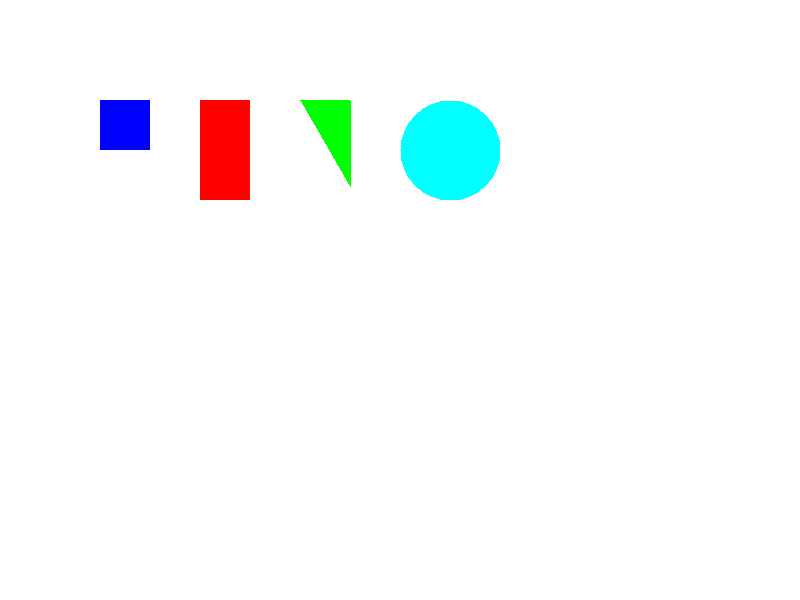
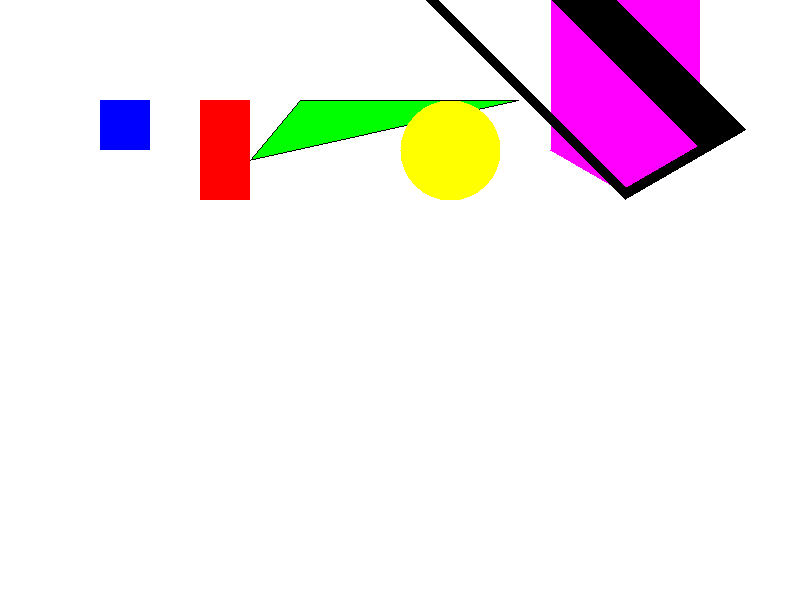
rombHW

Changed region(s): [[0.3125, 0.0, 0.9375, 0.33], [0.5312, 0.0, 0.5625, 0.03]]

diff --git a/abstractGeometry/main.cpp b/abstractGeometry/main.cpp
@@ -7,7 +7,9 @@
 
 using namespace std;
 using namespace Gdiplus;
-
+using std::cin;
+using std::cout;
+using std::endl;
 #define M_PI 3.14
 
 ULONG_PTR gdiplusToken;
@@ -41,13 +43,15 @@ int GetEncoderClsid(const WCHAR* format, CLSID* pClsid) {
 
 namespace Geometry
 {
+
    enum Color
     {
         Red = 0x000000FF,
         Green = 0x0000FF00,
         Blue = 0x00FF0000,
-        Yellow = 0x0000FFFF,
+        Yellow = 0xFFFF00,
         Violet = 0x00FF00FF,
+        Black = 0x000000FF
       };  
     //enum Color 
     //{
@@ -168,16 +172,20 @@ namespace Geometry
         double get_side_2() const { return side_2; }
         double get_angleDeg() const { return angleDeg; }
 
-        double get_side_3() const {
-            return sqrt(pow(side_1, 2) + pow(side_2, 2) - 2 * side_1 * side_2 * cos(angleDeg * M_PI / 180));
+        double get_side_3() const 
+        {
+            //double angleRad = angleDeg * M_PI / 180;
+            return sqrt((side_1 * side_1) + (side_2 * side_2) - 2 * side_1 * side_2 * cos(angleDeg * M_PI / 180));
         }
 
         double get_area() const override {
-            double angleRad = angleDeg * M_PI / 180;
-            return 0.5 * side_1 * side_2 * sin(angleRad);
+            //double angleRad = angleDeg * M_PI / 180;
+            return 0.5 * side_1 * side_2 * sin(angleDeg * M_PI / 180);
         }
+        
 
         double get_perimeter() const override {
+           // double side_3 = get_side_3();
             return side_1 + side_2 + get_side_3();
         }
 
@@ -186,54 +194,41 @@ namespace Geometry
         {
             Gdiplus::Color fillColor(FILLCOLOR);
             SolidBrush brush(fillColor);
+
+            double side_3 = get_side_3();
+          double height = (2 * get_area()) / side_3;
+            double angleRad = angleDeg * M_PI / 180;
+           
             PointF points[3];
+
+
             points[0] = PointF(start_x, start_y);
-            points[1] = PointF(start_x + side_1, start_y);
-            double angleRad = get_angleDeg() * M_PI / 180;
-            points[2] = PointF(start_x + side_2 * cos(angleRad),
-                               start_y + side_2 * sin(angleRad));
+            points[1] = PointF(start_x + side_1 * cos(angleRad), start_y + height);
+            points[2] = PointF(start_x + side_3, start_y );
+                              
             g->FillPolygon(&brush, points, 3);
         }
-      /* void fill(Graphics* g) const
-       {
-           Gdiplus::Color fillColor(FILLCOLOR);
-           SolidBrush brush(fillColor); 
-           Gdiplus::PointF points[3];
-           PointF A = { start_x, start_y };
-           PointF B = { start_x + side_1, start_y };
-           double angleRad = get_angleDeg() * M_PI / 180;
-           PointF C;
-           C.x = start_x + side_2 * cos(angleRad);
-           C.y = start_y + side_2 * sin(angleRad);
-           PointF points[3] = { A, B, C };
-           g->FillPolygon(&brush, points,3);
-       }
-      */  //void draw(Graphics* g) const 
-        //{
-        //    Gdiplus::Color fillColor(color);
-        //   
-        //    // Точки треугольника
-        //    REAL A_x = start_x;
-        //    REAL A_y = start_y;
-        //    REAL B_x = start_x + (REAL)side_1;
-        //    REAL B_y = start_y;
+      
+        void draw(Graphics* g) const 
+        {
+            double side_3 = get_side_3();
+            double height = (2 * get_area()) / side_3;
+            double angleRad = angleDeg * M_PI / 180;
 
-        //    double angleRad = get_angleDeg() * M_PI / 180;
-        //    REAL C_x = start_x + (REAL)(side_2 * cos(angleRad));
-        //    REAL C_y = start_y + (REAL)(side_2 * sin(angleRad));
+            PointF points[3];
 
-        //    PointF points[3] =
-        //    {
-        //        PointF(A_x, A_y),
-        //        PointF(B_x, B_y),
-        //        PointF(C_x, C_y)
-        //    };
 
-        //    Gdiplus::Color penColor(color);
-        //    Pen pen(penColor, line_width); 
+            points[0] = PointF(start_x, start_y);
+            points[1] = PointF(start_x + side_1 * cos(angleRad), start_y + height);
+            points[2] = PointF(start_x + side_3, start_y);
 
-        //    g->DrawPolygon(&pen, points, 3);
-        //}
+            Gdiplus::Color penColor(255, 0, 0, 0);
+
+
+            Pen pen(penColor, line_width); 
+
+            g->DrawPolygon(&pen, points, 3);
+        }
 
         Triangle(double side_1, double side_2, double angleDeg, SHAPE_TAKE_PARAMETERS)
             :Shape(SHAPE_GIVE_PARAMETERS) 
@@ -246,6 +241,11 @@ namespace Geometry
 
         void info() const override 
         {
+            if (side_1 + side_2 <= get_side_3() || side_1 + get_side_3 ()<= side_2 || side_2 + get_side_3() <= side_1) 
+            {
+                std::cout << "Треугольник с такими сторонами не существует." << std::endl;
+               // return 1;
+            }
             cout << "Triangle:" << endl;
             cout << "Сторона 1: " << get_side_1() << endl;
             cout << "Сторона 2: " << get_side_2() << endl;
@@ -292,6 +292,124 @@ namespace Geometry
             //Sleep(5000);
         }
     };
+    class Romb :public Shape
+    {
+        double side_1;
+        double side_2;
+        double angleDeg;
+
+    public:
+  
+        void set_side_1(double side_1) { this->side_1 = side_1; }
+        void set_side_2(double side_2) { this->side_2 = side_2; }
+        void set_angleDeg(double angleDeg) { this->angleDeg = angleDeg; }
+        
+        double get_side_1()const { return side_1; }
+        double get_side_2()const { return side_2; }
+        double get_angleDeg()const { return angleDeg; }
+       // double side_3 = get_side_3();
+        //double get_side_3() const
+        //{
+        //    //double angleRad = angleDeg * M_PI / 180.0;
+        //    return sqrt(pow(side_1, 2) + pow(side_1, 2) - 2 * side_1 * side_1 * cos(angleDeg * M_PI / 180));
+        //}
+        //
+        double get_side_3() const
+        {
+            double angleRad = angleDeg * M_PI / 180;
+            return sqrt((side_1 * side_1) + (side_1 * side_1) - 2 * side_1 * side_1 * cos(angleRad));
+        }
+
+        double get_area_1() const
+        {
+            return 0.5 * side_1 * side_2 * sin(angleDeg * M_PI / 180);
+            //double angleRad = angleDeg * M_PI / 180.0;
+            //return 0.5 * side_1 * side_1 * sin(angleRad); 
+        }
+        double get_area_2() const
+        {
+          // double side_3 = get_side_3();
+           double s = (side_2 + side_2 + get_side_3()) / 2;
+           return  sqrt(s * (s - side_2) * (s - side_2) * (s - get_side_3()));
+
+        }
+        double get_perimeter()const override { return (side_1 + side_2) * 2; }
+  
+        // Основная площадь
+        double get_area() const override {return  get_area_1() + get_area_2();  }
+        double get_height_1() const { (2 * get_area_1()) / get_side_3(); }
+        double get_height_2() const { (2 * get_area_2()) / get_side_3(); }
+        // Расчет координат вершин
+        void fill(Graphics* g) const {
+            Gdiplus::Color fillColor(FILLCOLOR);
+            SolidBrush brush(fillColor);
+            double side_3 = get_side_3();
+            double height_1 = (2 * get_area_1()) / side_3;
+            double height_2 = (2 * get_area_2()) / side_3;
+
+            PointF points[4];
+            points[0] = PointF(start_x, start_y);
+            points[1] = PointF(start_x + side_3 / 2, start_y + height_1);
+            
+            points[2] = PointF(start_x + side_3, start_y);
+            points[3] = PointF(start_x + side_3/2, start_y - height_2);
+      
+            
+          
+            
+            g->FillPolygon(&brush, points, 4);
+        }
+        void draw(Graphics* g) const
+        {
+
+            double side_3 = get_side_3();
+            double height_1 = (2 * get_area_1()) / side_3;
+            double height_2 = (2 * get_area_2()) / side_3;
+
+            Gdiplus::Color fillColor(FILLCOLOR);
+            SolidBrush brush(fillColor);
+            PointF points[4];
+            points[0] = PointF(start_x, start_y);
+            points[1] = PointF(start_x + side_3 / 2, start_y + height_1);
+
+            points[2] = PointF(start_x + side_3, start_y);
+            points[3] = PointF(start_x + side_3 / 2, start_y - height_2);
+
+           
+           
+            Gdiplus::Color penColor(255, 0, 0, 0);
+            Pen pen(penColor, line_width);
+           
+            g->DrawPolygon(&pen, points, 4);
+        }
+
+        Romb(double side_1, double side_2, double angleDeg ,SHAPE_TAKE_PARAMETERS)
+            :Shape(SHAPE_GIVE_PARAMETERS)
+        {
+            set_side_1(side_1);
+            set_side_2(side_2);
+            set_angleDeg(angleDeg);
+        }
+
+        void info() const override 
+        {
+            double side_3 = get_side_3();
+            double height_1 = (2 * get_area_1()) / side_3;
+            double height_2 = (2 * get_area_2()) / side_3;
+            cout << "Romb:" << endl;
+            cout << "Сторона 1: " << get_side_1() << endl;
+            cout << "Сторона 2: " << get_side_2() << endl;
+            cout << "Сторона 3: " << get_side_3() << endl;
+            cout << "Угол: " << get_angleDeg() << endl;
+            cout << "Высота 1: " << height_1 << endl;
+            cout << "Высота 2: " << height_2 << endl;
+            cout << "Высота 2: " << get_area_2() << endl;
+            Shape::info();
+        }
+    };
+
+    
+
 
     class Square :public Rectangle {
     public:
@@ -316,36 +434,42 @@ namespace Geometry
     Graphics* g = Graphics::FromImage(pBitmap);
     g->Clear(Color(255, 255, 255, 255)); // белый фон
 
-    // Создаем фигуры
+     
     Geometry::Square square(50, 50, 50, 1, Geometry::Color::Red);
     square.info();
     square.fill(g);
     //square.draw(g);
     cout << "\n";
-
+   
     Geometry::Rectangle rect(50, 100, 200, 50, 1, Geometry::Color::Blue);
     rect.info();
     rect.fill(g);
     //rect.draw(g);
     cout << "\n";
-
-    Geometry::Triangle tri(50, 100, 60, 300, 50, 1, Geometry::Color::Green);
-    tri.info();
-    tri.fill(g);
-    //tri.draw(g);
+   
+    Geometry::Triangle triangle(100, 150, 20, 300, 50, 1, Geometry::Color::Green);
+    triangle.info();
+    triangle.fill(g);
+    triangle.draw(g);
     cout << "\n";
-
-    Geometry::Circle circle(50, 450, 150, 1, Geometry::Color::Yellow);
-    circle.info();
-    circle.fill(g);
+   
+     Geometry::Circle circle(50, 450, 150, 1, Geometry::Color::Yellow);
+     circle.info();
+     circle.fill(g);
     //circle.draw(g);
     cout << "\n";
 
+     Geometry::Romb romb(150, 50, 60, 550,150, 10, Geometry::Color::Violet);
+     romb.info();
+     romb.fill(g);
+     romb.draw(g);
+     cout << "\n";
     // Сохраняем изображение
     wchar_t filename[] = L"output.png";
     CLSID pngClsid;
     GetEncoderClsid(L"image/png", &pngClsid);
     pBitmap->Save(filename, &pngClsid, NULL);
+
 
     // Освобождаем ресурсы
     delete g;
